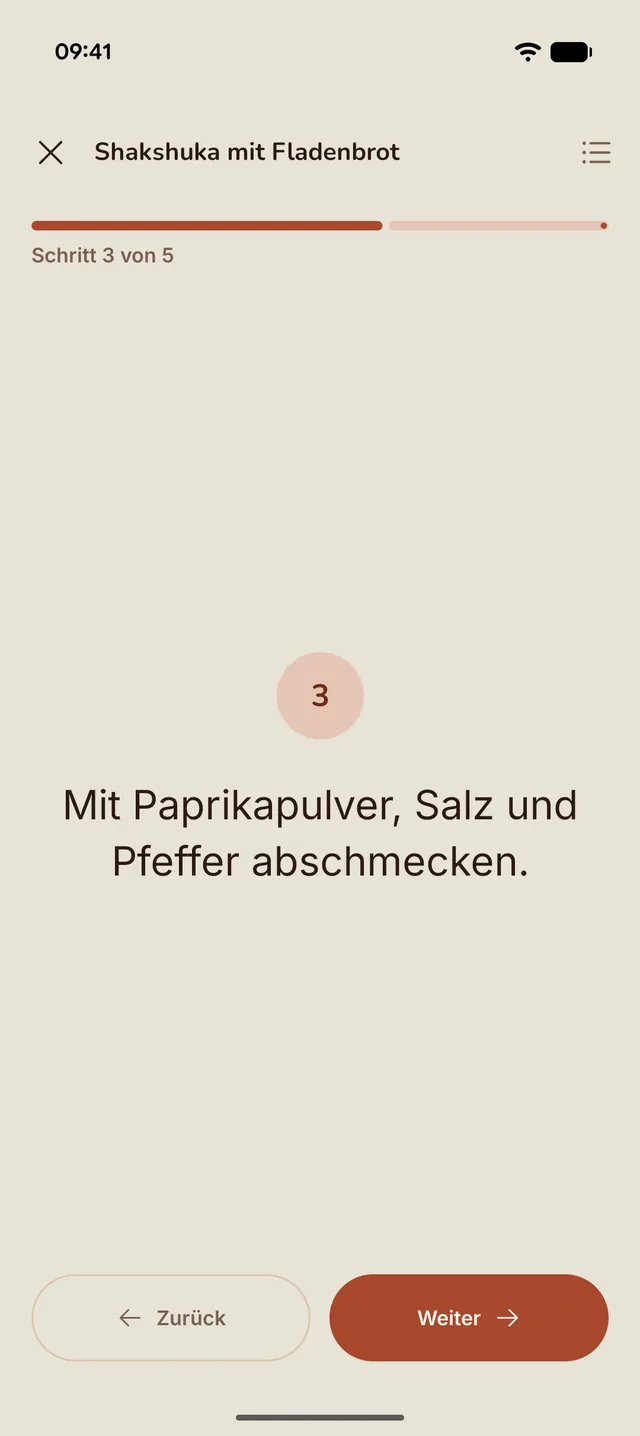
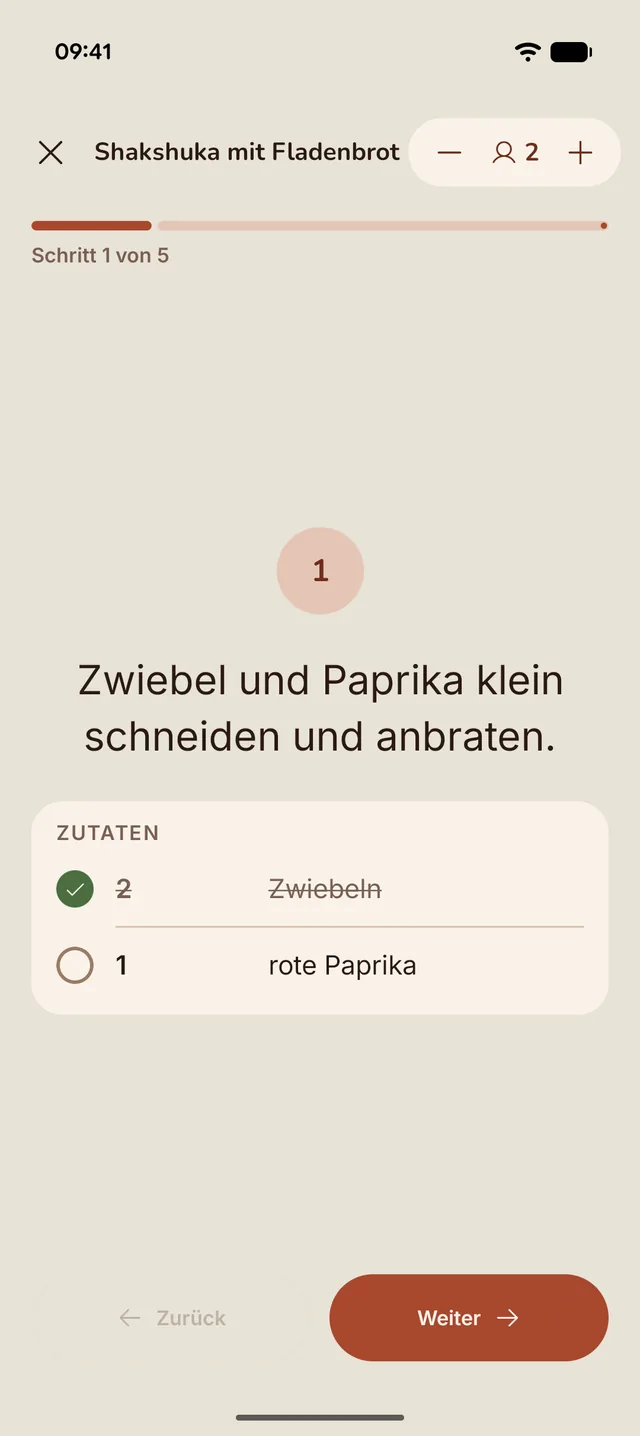
Block zur Naehrwert-Schaetzung, neue Screenshots, Header auf Sandstand
Uebernahme aus gutster95/kochbuch (2953a61).

Der neue Funktionsblock heisst "Was ungefaehr drinsteckt" und sagt in
Ueberschrift, Fliesstext und erstem Punkt, dass GESCHAETZT wird: Eine
Kalorienzahl sieht geschaetzt genauso aus wie gemessen, und das Oel in der
Pfanne steht in keiner Zutatenzeile. Kein Wort, das nach Pflichtkennzeichnung
klingt (LMIV). Er steht bewusst zuletzt.

Die Screenshots standen auf dem Stand vom 11.10.: Der Kochmodus zeigt jetzt je
Schritt eine Zutatenkarte, die Rezepttitel trennen seit Hyphens.Auto anders.
app-kochbuecher kam bitgenau gleich wieder heraus und bleibt deshalb liegen.

header.webp zeigte als letztes Stueck des UI-Umbaus noch die weisse Fassung
mit Domine.

Claude-Session: https://claude.ai/code/session_01PQ3bDNVyjfg9x8mkinPr88

diff --git a/index.html b/index.html
@@ -499,7 +499,41 @@ alles weitere im Video 👆 speichern nicht vergessen
           <div class="telefon">
             <img class="schirm-bild" src="bilder/app-kochmodus.webp"
                  width="640" height="1436" loading="lazy" decoding="async"
-                 alt="Der Kochmodus der App: Schritt 3 von 5 gross dargestellt, unten die Knoepfe Zurueck und Weiter.">
+                 alt="Der Kochmodus der App: Schritt 1 von 5 gross dargestellt, darunter die Zutaten dieses Schritts, eine davon abgehakt.">
+          </div>
+        </div>
+      </div>
+
+      <!--
+        Naehrwerte stehen bewusst ZULETZT und bewusst zurueckhaltend: Es ist eine
+        Schaetzung, und eine Kalorienzahl sieht geschaetzt genauso aus wie
+        gemessen. Der Block sagt darum in Ueberschrift, Fliesstext UND erstem
+        Punkt, dass geschaetzt wird - wer ihn kuerzt, nimmt genau die Stelle
+        heraus, die ihn richtig macht. Keine Abbildung einer Naehrwerttabelle,
+        kein Wort, das nach Pflichtkennzeichnung klingt (LMIV).
+      -->
+      <div class="zug zug-gedreht" data-auftritt-gruppe>
+        <div class="zug-text" data-auftritt>
+          <h2>Was ungef&auml;hr drinsteckt</h2>
+          <p class="gross">
+            Zu jedem Rezept sch&auml;tzt die App die N&auml;hrwerte: Energie, Eiwei&szlig;, Fett und
+            Kohlenhydrate je 100&nbsp;g Zutaten. Das ist eine Sch&auml;tzung und keine
+            N&auml;hrwerttabelle &mdash; das &Ouml;l in der Pfanne steht in keiner Zutatenzeile.
+          </p>
+          <ul class="zug-punkte">
+            <li><svg width="18" height="18" viewBox="0 0 24 24" aria-hidden="true"><use href="#i-haken"/></svg>
+              <span>&bdquo;Gesch&auml;tzt&ldquo; steht dabei, jedes Mal.</span></li>
+            <li><svg width="18" height="18" viewBox="0 0 24 24" aria-hidden="true"><use href="#i-haken"/></svg>
+              <span>Je Zutat aufgeschl&uuml;sselt, damit du siehst, woher die Zahl kommt.</span></li>
+            <li><svg width="18" height="18" viewBox="0 0 24 24" aria-hidden="true"><use href="#i-haken"/></svg>
+              <span>&Auml;nderst du eine Zutat, sch&auml;tzt die App beim Speichern neu.</span></li>
+          </ul>
+        </div>
+        <div class="zug-bild" data-auftritt style="--i:1">
+          <div class="telefon">
+            <img class="schirm-bild" src="bilder/app-naehrwerte.webp"
+                 width="640" height="1436" loading="lazy" decoding="async"
+                 alt="Der Naehrwerte-Reiter eines Rezepts: gesch&auml;tzte Werte je 100 g und darunter die Einzelposten je Zutat.">
           </div>
         </div>
       </div>

diff --git a/en/index.html b/en/index.html
@@ -458,7 +458,40 @@ everything else in the video 👆 don't forget to save
           <div class="telefon">
             <img class="schirm-bild" src="../bilder/app-kochmodus.webp"
                  width="640" height="1436" loading="lazy" decoding="async"
-                 alt="Cooking mode: step 3 of 5 shown large, with back and next buttons below.">
+                 alt="Cooking mode: step 1 of 5 shown large, with that step's ingredients below it, one of them ticked off.">
+          </div>
+        </div>
+      </div>
+
+      <!--
+        Nutrition comes LAST and stays understated: it is an estimate, and a
+        calorie figure looks the same estimated as measured. Heading, body text
+        AND the first bullet all say so - whoever shortens this block removes
+        exactly the part that makes it true. No nutrition-label look, no wording
+        that suggests a mandatory declaration (EU FIC).
+      -->
+      <div class="zug zug-gedreht" data-auftritt-gruppe>
+        <div class="zug-text" data-auftritt>
+          <h2>Roughly what is in it</h2>
+          <p class="gross">
+            For every recipe the app estimates the nutrition: energy, protein, fat and
+            carbohydrates per 100&nbsp;g of ingredients. It is an estimate, not a nutrition
+            label &mdash; the oil in the pan appears in no ingredient line.
+          </p>
+          <ul class="zug-punkte">
+            <li><svg width="18" height="18" viewBox="0 0 24 24" aria-hidden="true"><use href="#i-haken"/></svg>
+              <span>It says &ldquo;estimated&rdquo; right there, every time.</span></li>
+            <li><svg width="18" height="18" viewBox="0 0 24 24" aria-hidden="true"><use href="#i-haken"/></svg>
+              <span>Broken down per ingredient, so you can see where the number comes from.</span></li>
+            <li><svg width="18" height="18" viewBox="0 0 24 24" aria-hidden="true"><use href="#i-haken"/></svg>
+              <span>Change an ingredient and the app estimates again when you save.</span></li>
+          </ul>
+        </div>
+        <div class="zug-bild" data-auftritt style="--i:1">
+          <div class="telefon">
+            <img class="schirm-bild" src="../bilder/app-naehrwerte.webp"
+                 width="640" height="1436" loading="lazy" decoding="async"
+                 alt="A recipe's nutrition tab: estimated values per 100 g and the per-ingredient breakdown below.">
           </div>
         </div>
       </div>

diff --git a/README.md b/README.md
@@ -187,7 +187,7 @@ schrift/inter.woff2     Fliesstext, Labels und Zahlen, Subset aus der App
 schrift/OFL.txt         ihre Lizenz (SIL Open Font License 1.1, fuer beide)
 bilder/logo.svg         das App-Logo, zugleich Favicon
 bilder/logo-180.png     dasselbe fuer den iOS-Homescreen
-bilder/app-*.webp       die vier Screenshots der Startseite
+bilder/app-*.webp       die fuenf Screenshots der Startseite
 bilder/badge-*.png/svg  die offiziellen Store-Abzeichen (Marken von Google und Apple)
 ```
 
